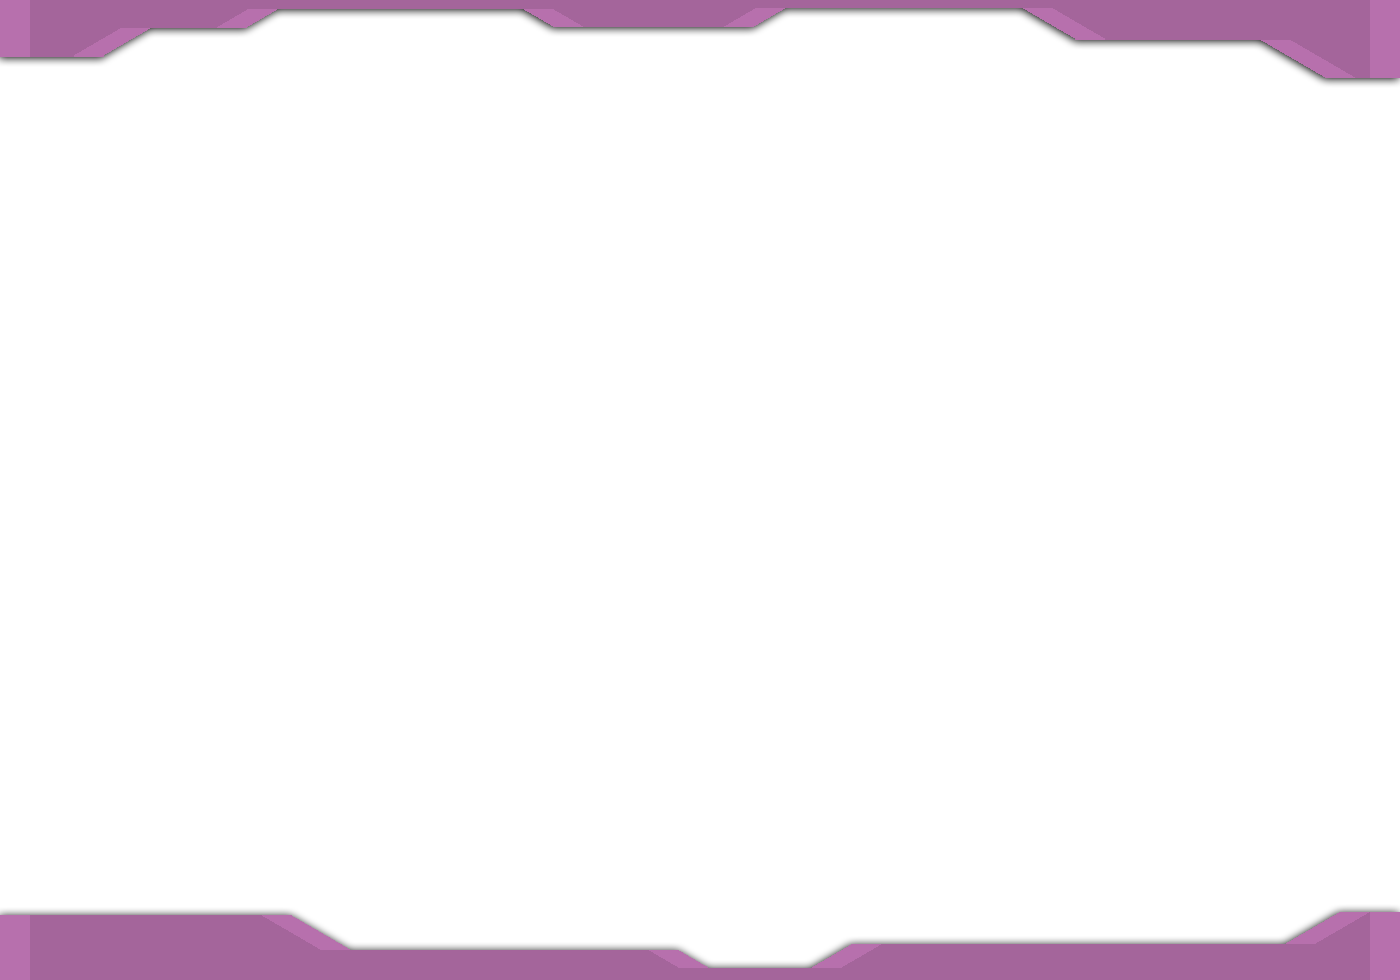
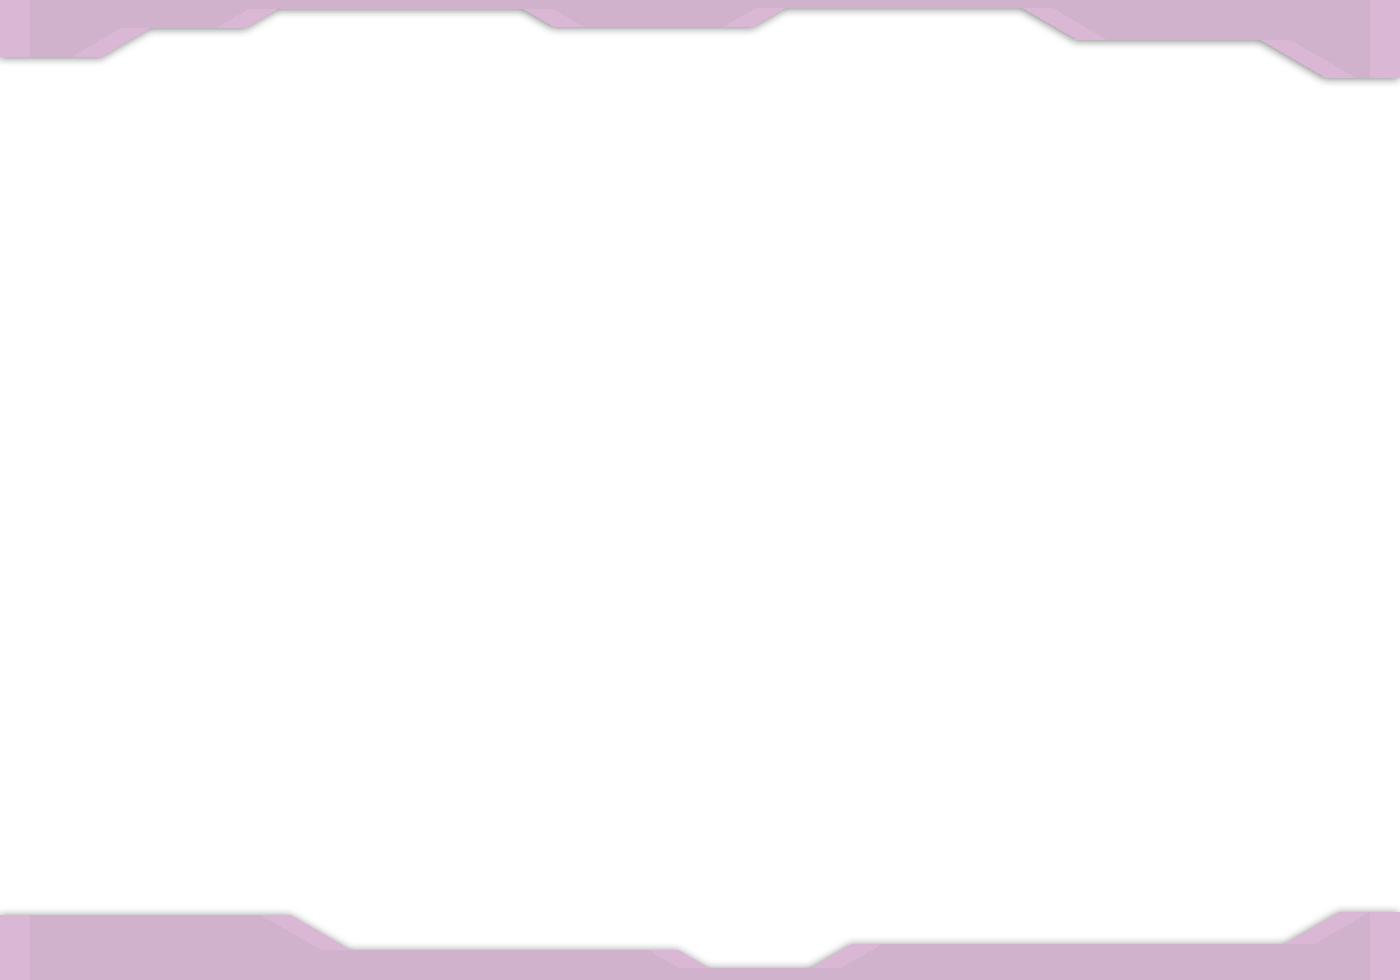
fonts and colors adjustments

Changed region(s): [[0.0, 0.9184, 1.0, 1.0], [0.0, 0.0, 1.0, 0.0918]]

diff --git a/src/components/layout/home/GameModeSection.tsx b/src/components/layout/home/GameModeSection.tsx
@@ -287,7 +287,7 @@ const GameModeSection: React.FC = () => {
           left: 0,
           width: "100%",
           height: "100%",
-          opacity: 0.75,
+          opacity: 0.5,
           filter: "drop-shadow(0px 4px 10px rgba(0, 0, 0, 0.5))",
           zIndex: 1,
         })}
@@ -397,6 +397,7 @@ const GameModeSection: React.FC = () => {
                 <Typography
                   fontSize={"1.5rem"}
                   sx={{ marginTop: 2, marginBottom: 2 }}
+                  color="custom.primaryTextGrayed"
                 >
                   {expandedMember.name}
                 </Typography>
@@ -405,6 +406,7 @@ const GameModeSection: React.FC = () => {
                   variant="h5"
                   fontSize={"1.5rem"}
                   sx={{ marginBottom: 2 }}
+                  color="custom.primaryTextGrayed"
                 >
                   {expandedMember.intro}
                 </Typography>
@@ -420,6 +422,7 @@ const GameModeSection: React.FC = () => {
                   <Typography
                     variant="h5"
                     fontSize={{ md: "1.75rem", xs: "1.25rem" }}
+                    color="custom.primaryTextGrayed"
                   >
                     IP address: {expandedMember.ip}
                   </Typography>
@@ -436,6 +439,7 @@ const GameModeSection: React.FC = () => {
                   <Typography
                     variant="h5"
                     fontSize={{ md: "1.75rem", xs: "1.25rem" }}
+                    color="custom.primaryTextGrayed"
                   >
                     {expandedMember.name} port: {expandedMember.port}
                   </Typography>
@@ -501,6 +505,7 @@ const GameModeSection: React.FC = () => {
                     variant="body1"
                     fontSize={"1.10rem"}
                     sx={{ marginTop: 2 }}
+                    color="custom.primaryTextGrayed"
                   >
                     {member.name}
                   </Typography>

diff --git a/src/components/layout/home/TeamSection.tsx b/src/components/layout/home/TeamSection.tsx
@@ -292,7 +292,7 @@ const TeamSection: React.FC = () => {
       left={0}
       sx={{
         padding: { md: "4", xs: "1" },
-        backgroundColor: "custom.secondaryBackground",
+        backgroundColor: "custom.primaryBackground",
         paddingTop: { md: "7.5rem", xs: "3rem" },
         paddingBottom: { md: "7.5rem", xs: "3rem" },
       }}
@@ -455,10 +455,13 @@ const TeamSection: React.FC = () => {
                         variant="body1"
                         fontSize={{ md: "1.10rem", xs: "1rem" }}
                         sx={{ marginTop: 2 }}
+                        color="custom.primaryTextGrayed"
                       >
                         {member.name}
                       </Typography>
-                      <Typography variant="h5">{member.role}</Typography>
+                      <Typography variant="h5" color="custom.primaryTextGrayed">
+                        {member.role}
+                      </Typography>
                     </Paper>
                   </Grid>
                 ))}
@@ -538,10 +541,16 @@ const TeamSection: React.FC = () => {
                           variant="body1"
                           fontSize={"1.10rem"}
                           sx={{ marginTop: 2 }}
+                          color="custom.primaryTextGrayed"
                         >
                           {member.name}
                         </Typography>
-                        <Typography variant="h5">{member.role}</Typography>
+                        <Typography
+                          variant="h5"
+                          color="custom.primaryTextGrayed"
+                        >
+                          {member.role}
+                        </Typography>
                       </Paper>
                     </SwiperSlide>
                   ))}

diff --git a/src/components/layout/home/ShipsSection.tsx b/src/components/layout/home/ShipsSection.tsx
@@ -63,7 +63,7 @@ const ShipsSection: React.FC = () => {
   const theme = useTheme();
   const { activeSet } = useThemeContext();
   const [activeTab, setActiveTab] = useState<number>(0);
-  const [activeTabShips, setActiveTabShips] = useState<number>(0);
+  const [activeTabShips, setActiveTabShips] = useState<number>(1);
   const [expandedMember, setExpandedMember] = useState<Ship | null>(null);
   const [shipData, setShipData] = useState<Ship[][]>([]);
   const [loading, setLoading] = useState<boolean>(true);
@@ -280,7 +280,7 @@ const ShipsSection: React.FC = () => {
       left={0}
       sx={{
         padding: { md: "4", xs: "1" },
-        backgroundColor: "custom.secondaryBackground",
+        backgroundColor: "custom.primaryBackground",
         paddingTop: { md: "7.5rem", xs: "3rem" },
         paddingBottom: { md: "7.5rem", xs: "3rem" },
         minHeight: "75vh",
@@ -735,10 +735,18 @@ const ShipsSection: React.FC = () => {
                         borderRadius: "50%",
                       }}
                     />
-                    <Typography variant="body1" fontSize={"1.10rem"}>
+                    <Typography
+                      variant="body1"
+                      fontSize={"1.10rem"}
+                      color="custom.primaryTextGrayed"
+                    >
                       {member.title}
                     </Typography>
-                    <Typography variant="h5" sx={{ marginTop: 2 }}>
+                    <Typography
+                      variant="h5"
+                      sx={{ marginTop: 2 }}
+                      color="custom.primaryTextGrayed"
+                    >
                       Type: {member.ship_type}
                     </Typography>
                   </Paper>

diff --git a/src/components/layout/MainBorder.tsx b/src/components/layout/MainBorder.tsx
@@ -233,6 +233,24 @@ const MainBorder: React.FC<MainBorderProps> = ({ containerId }) => {
               border: `.5rem solid ${theme.palette.custom.primaryBorders}`,
             })}
           />
+
+          {/* <Box
+            component="img"
+            alt="Banner"
+            src={imageBgBannerSrc}
+            sx={{
+              position: "absolute",
+              display: { md: `${uiBoolean.image_banner}`, xs: "none" },
+              top: 0,
+              left: 0,
+              width: "100%",
+              height: "100%",
+              opacity: 0.5,
+              objectFit: "cover",
+              zIndex: "2",
+              transform: "scaleX(-1)",
+            }}
+          /> */}
         </Box>
       )}
 
@@ -292,6 +310,23 @@ const MainBorder: React.FC<MainBorderProps> = ({ containerId }) => {
               border: `.5rem solid ${theme.palette.custom.primaryBorders}`,
             })}
           />
+          {/* 
+          <Box
+            component="img"
+            alt="Banner"
+            src={imageBgBannerSrc}
+            sx={{
+              position: "absolute",
+              display: { md: `${uiBoolean.image_banner}`, xs: "none" },
+              top: 0,
+              left: 0,
+              width: "100%",
+              height: "100%",
+              opacity: 0.5,
+              objectFit: "cover",
+              zIndex: "2",
+            }}
+          /> */}
         </Box>
       )}
 

diff --git a/src/components/layout/home/ModsSection.tsx b/src/components/layout/home/ModsSection.tsx
@@ -142,7 +142,11 @@ const ModsList: React.FC = () => {
                   },
                 }}
               >
-                <Typography variant="h6" fontSize={"1.5rem"}>
+                <Typography
+                  variant="h6"
+                  fontSize={"1.5rem"}
+                  color="custom.primaryTextGrayed"
+                >
                   {mod.name}
                 </Typography>
               </Paper>
@@ -195,7 +199,11 @@ const ModsList: React.FC = () => {
                     },
                   }}
                 >
-                  <Typography variant="h6" fontSize={"1.5rem"}>
+                  <Typography
+                    variant="h6"
+                    fontSize={"1.5rem"}
+                    color="custom.primaryTextGrayed"
+                  >
                     {mod.name}
                   </Typography>
                 </Paper>
@@ -444,7 +452,7 @@ const ModsSection: React.FC = () => {
           left: 0,
           width: "100%",
           height: "100%",
-          opacity: 0.75,
+          opacity: 0.5,
           filter: "drop-shadow(0px 4px 10px rgba(0, 0, 0, 0.5))",
         })}
       />

diff --git a/src/components/layout/home/MediaSection.tsx b/src/components/layout/home/MediaSection.tsx
@@ -261,7 +261,7 @@ const MediaSection: React.FC = () => {
           left: 0,
           width: "100%",
           height: "100%",
-          opacity: 0.75,
+          opacity: 0.5,
           filter: "drop-shadow(0px 4px 10px rgba(0, 0, 0, 0.5))",
         }}
       />
@@ -347,6 +347,7 @@ const MediaSection: React.FC = () => {
                       padding: 0.5,
                       bgcolor: "custom.primaryComponents",
                     }}
+                    color="custom.primaryTextGrayed"
                   >
                     {item.title}
                   </Typography>
@@ -413,6 +414,7 @@ const MediaSection: React.FC = () => {
                       padding: 0.5,
                       bgcolor: "custom.primaryComponents",
                     }}
+                    color="custom.primaryTextGrayed"
                   >
                     {item.title}
                   </Typography>

diff --git a/src/components/layout/home/DonateSection.tsx b/src/components/layout/home/DonateSection.tsx
@@ -208,7 +208,7 @@ const DonateSection: React.FC = () => {
       left={0}
       sx={{
         padding: { md: "4", xs: "1" },
-        backgroundColor: "custom.secondaryBackground",
+        backgroundColor: "custom.primaryBackground",
         paddingTop: { md: "7.5rem", xs: "3rem" },
         paddingBottom: { md: "7.5rem", xs: "3rem" },
       }}
@@ -343,6 +343,7 @@ const DonateSection: React.FC = () => {
                       variant="body1"
                       fontSize={"1.10rem"}
                       sx={{ marginTop: 2 }}
+                      color="custom.primaryTextGrayed"
                     >
                       {coin.name}
                     </Typography>

diff --git a/src/components/layout/home/NewsSection.tsx b/src/components/layout/home/NewsSection.tsx
@@ -149,7 +149,7 @@ const NewsSection = () => {
       left={0}
       sx={{
         padding: { md: "4", xs: "1" },
-        backgroundColor: "custom.secondaryBackground",
+        backgroundColor: "custom.primaryBackground",
         paddingTop: { md: "10rem", xs: "5rem" },
         paddingBottom: { md: "7.5rem", xs: "3rem" },
         minHeight: "40vh",

diff --git a/src/components/layout/home/GitFeedsSection.tsx b/src/components/layout/home/GitFeedsSection.tsx
@@ -176,7 +176,7 @@ const GitFeedsSection: React.FC = () => {
       left={0}
       sx={{
         padding: { md: "4", xs: "1" },
-        backgroundColor: "custom.secondaryBackground",
+        backgroundColor: "custom.primaryBackground",
         paddingTop: { md: "7.5rem", xs: "3rem" },
         paddingBottom: { md: "7.5rem", xs: "3rem" },
       }}

diff --git a/src/components/layout/home/Partners.tsx b/src/components/layout/home/Partners.tsx
@@ -267,7 +267,7 @@ const PartnersSection: React.FC = () => {
           left: 0,
           width: "100%",
           height: "100%",
-          opacity: 0.75,
+          opacity: 0.5,
           filter: "drop-shadow(0px 4px 10px rgba(0, 0, 0, 0.5))",
         })}
       />
